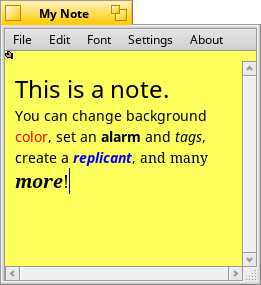
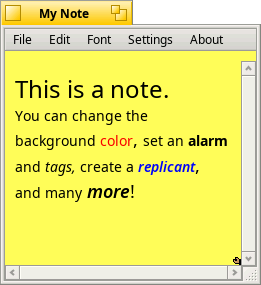
Replicant dragger hand is now in bottom right corner

diff --git a/source/NoteView.cpp b/source/NoteView.cpp
@@ -66,7 +66,10 @@ NoteView :: NoteView(BRect frame, int32 resizingMode, bool inDeskbar, BHandler *
 
 		// We don't have to add the dragger if the view is in the deskbar
 		SetViewColor(254,254,92,255);
-		dragger = new BDragger(BRect(0,0,7,7),this,B_FOLLOW_NONE);
+		int xMax = Bounds().RightBottom().x - B_V_SCROLL_BAR_WIDTH - 1;
+		int yMax = Bounds().RightBottom().y - B_H_SCROLL_BAR_HEIGHT - 1;
+		dragger = new BDragger(BRect(xMax-7,yMax-7,xMax,yMax),
+			this,B_FOLLOW_ALL_SIDES);
 		AddChild(dragger);
 		dragger->SetViewColor(ViewColor());
 
